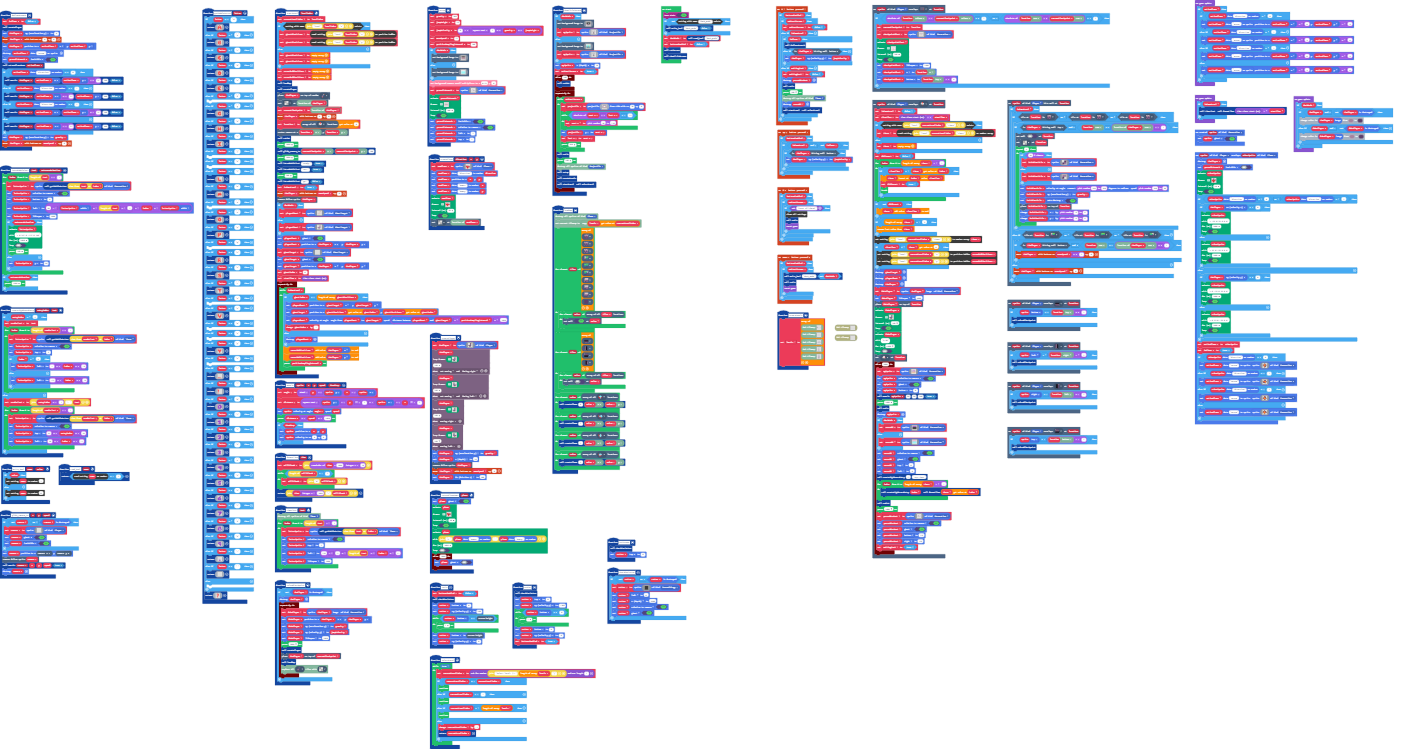
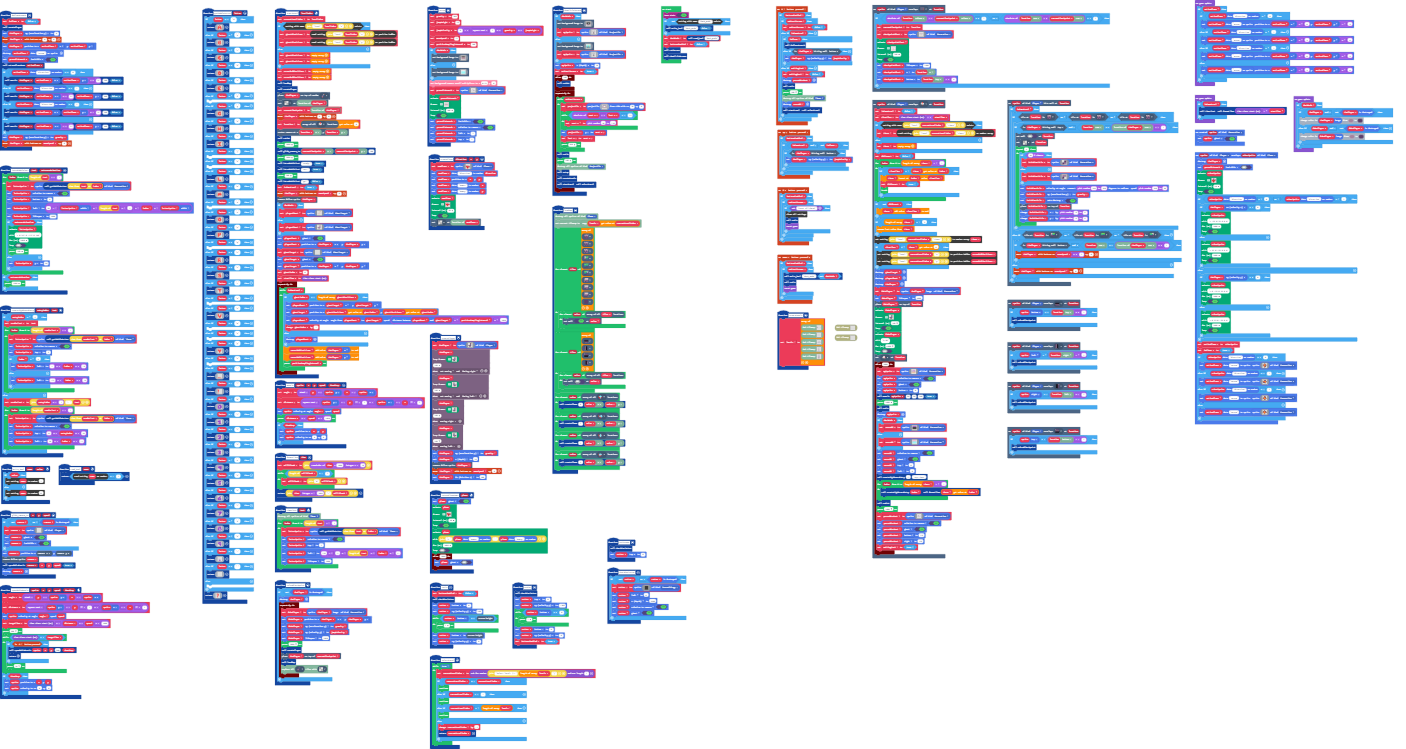
Can skip camera panning at beginning of level

Changed region(s): [[0.0, 0.737, 0.1223, 0.9519]]

diff --git a/main.ts b/main.ts
@@ -2569,7 +2569,7 @@ function glide_camera_to (x: number, y: number, speed: number) {
     }
     camera.setPosition(scene.cameraProperty(CameraProperty.X), scene.cameraProperty(CameraProperty.Y))
     scene.cameraFollowSprite(camera)
-    moveTo(camera, x, y, speed, true)
+    speedableMoveTo(camera, x, y, speed, true)
     camera.destroy()
 }
 function timerText (text: string) {
@@ -3442,6 +3442,25 @@ scene.onOverlapTile(SpriteKind.Player, assets.tile`myTile26`, function (sprite, 
         reloadCheckpoint()
     }
 })
+function speedableMoveTo (sprite: Sprite, x: number, y: number, speed: number, thenStop: boolean) {
+    angle = Math.atan2(y - sprite.y, x - sprite.x)
+    distance = Math.sqrt((sprite.y - y) ** 2 + (sprite.x - x) ** 2)
+    spriteutils.setVelocityAtAngle(sprite, angle, speed)
+    targetTime = game.runtime() + distance / speed * 1000
+    pause(500)
+    while (game.runtime() < targetTime) {
+        if (controller.A.isPressed()) {
+            speedableMoveTo(sprite, x, y, 500, thenStop)
+            return
+        }
+        pause(20)
+    }
+    if (thenStop) {
+        sprite.setPosition(x, y)
+        sprite.setVelocity(0, 0)
+    }
+}
+let targetTime = 0
 let newPlane: Sprite = null
 let ghostIndex = 0
 let location: tiles.Location = null
